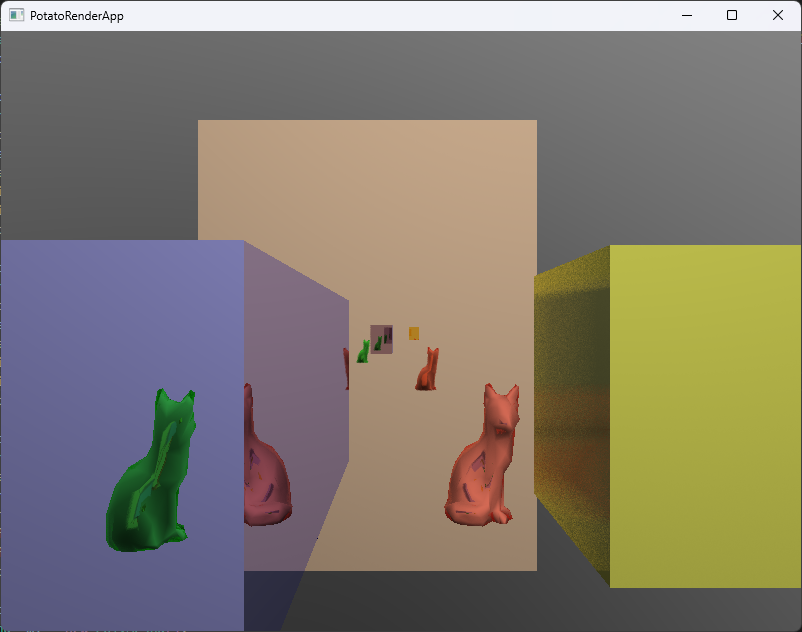
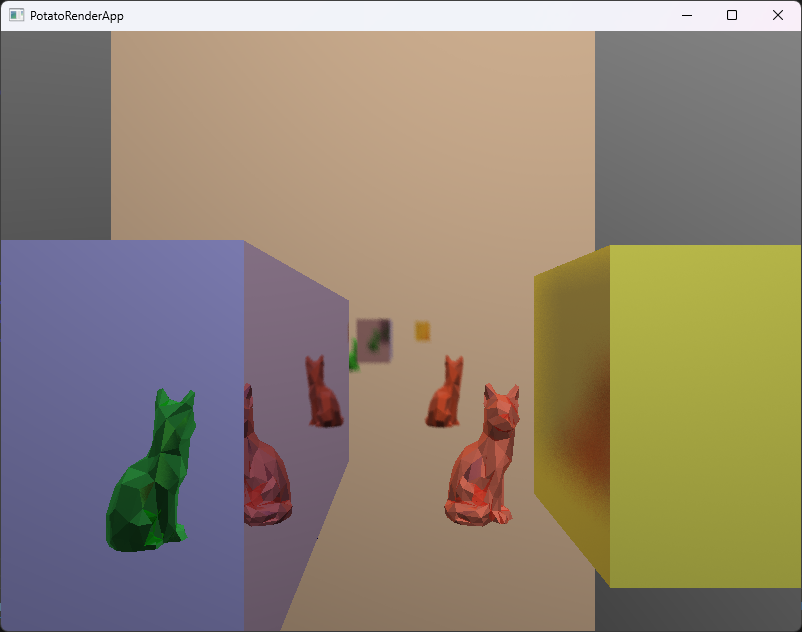
Updated ray scattering

diff --git a/src/lib/PotatoRaytracerEngine.cpp b/src/lib/PotatoRaytracerEngine.cpp
@@ -15,19 +15,19 @@ PotatoRaytracerEngine::PotatoRaytracerEngine(int windowWidth, int windowHeight) 
 	Mat4d modelMat = translate(2.4, -2.0, -20.0) * uniformScale(4.0) * foxMat;
 	PolyMeshd *tp1 = new PolyMeshd();
 	tp1 = loadOBJTriangleMesh("sampleModels/fox.obj");
-	tp1->blendNormals = true;
+	tp1->blendNormals = false;
 	tp1->transform(modelMat);
 	tp1->uniformRecolor(Vec3d(1.0, 0.5, 0.4));
-	tp1->uniformRetexture(0.8, 1.0);
+	tp1->uniformRetexture(0.8, 0.2);
 	meshes.push_back(tp1);
 
 	modelMat = translate<double>(-7.8, -1.5, 4.0) * uniformScale(3.0) * foxMat;
 	PolyMeshd *tp2 = new PolyMeshd();
 	tp2 = loadOBJTriangleMesh("sampleModels/fox.obj");
-	tp2->blendNormals = true;
+	tp2->blendNormals = false;
 	tp2->transform(modelMat);
 	tp2->uniformRecolor(Vec3d(0.3, 1.0, 0.3));
-	tp2->uniformRetexture(1.0, 1.0);
+	tp2->uniformRetexture(1.0, 0.1);
 	meshes.push_back(tp2);
 
 	modelMat = translate<double>(2.1, -0.4, -3.6) * uniformScale(0.8);
@@ -36,7 +36,7 @@ PotatoRaytracerEngine::PotatoRaytracerEngine(int windowWidth, int windowHeight) 
 	c1->blendNormals = false;
 	c1->transform(modelMat);
 	c1->uniformRecolor(Vec3d(1.0, 1.0, 0.4));
-	c1->uniformRetexture(1.0, 0.5);
+	c1->uniformRetexture(1.0, 0.2);
 	meshes.push_back(c1);
 
 	modelMat =  translate<double>(-3.0, -1.0, -8) * scale<double>(1.6, 1.6, 4.0);
@@ -48,13 +48,13 @@ PotatoRaytracerEngine::PotatoRaytracerEngine(int windowWidth, int windowHeight) 
 	m1->uniformRetexture(1.0, 0.0);
 	meshes.push_back(m1);
 
-	modelMat =  translate<double>(-3.0, -1.0, -40) * scale<double>(15, 15, 0.1);
+	modelMat =  translate<double>(-3.0, -1.0, -28) * scale<double>(15, 15, 0.1);
 	PolyMeshd *m2 = new PolyMeshd();
 	m2 = loadOBJTriangleMesh("sampleModels/cube.obj");
 	m2->blendNormals = false;
 	m2->transform(modelMat);
 	m2->uniformRecolor(Vec3d(1.0, 0.85, 0.7));
-	m2->uniformRetexture(1.0, 0.15);
+	m2->uniformRetexture(1.0, 0.05);
 	meshes.push_back(m2);
 }
 
@@ -102,7 +102,7 @@ Vec3f PotatoRaytracerEngine::raycast(Ray ray) {
 		if (collideRay(ray, col_vert)) {
 			double diffuse_scalar = (1.0 + MIN_SKY_LIGHT + col_vert.normal.dot(lightDirection)) / (2.0 + 2*MIN_SKY_LIGHT);
 			if (ENABLE_RANDOM)
-				ray.reflectSelf(col_vert, Vec3d(diffuse_scalar), randDouble());
+				ray.reflectSelf(col_vert, Vec3d(diffuse_scalar), Vec3d(randDouble(), randDouble(), randDouble()));
 			else
 				ray.reflectSelf(col_vert, Vec3d(diffuse_scalar));
 		}
@@ -126,6 +126,7 @@ struct BBCollideData {
 // Returns the color from the given raycast
 bool PotatoRaytracerEngine::collideRay(Ray ray, Vertd &col_vert) {
 	
+	// List of collisions with bounding boxes
 	vector<BBCollideData> bb_collides = {};
 	// For each mesh
 	for (int i = 0; i < meshes.size(); i++) {
@@ -156,6 +157,7 @@ bool PotatoRaytracerEngine::collideRay(Ray ray, Vertd &col_vert) {
 			continue;
 		}
 
+		// Insert into the list
 		bool added = false;
 		for (int i = 0; i < bb_collides.size(); i++) {
 			// Insert new collide to correct location (sorted by near_t)
@@ -171,9 +173,9 @@ bool PotatoRaytracerEngine::collideRay(Ray ray, Vertd &col_vert) {
 			bb_collides.push_back(new_collide);
 	}
 
-
-	Vertd last_vert;
-	double last_cld_t = -1;
+	// Data about the closest collision (if any)
+	Vertd closest_cld_vert;
+	double closest_cld_t = -1;
 	bool hasBeenACollide = false;
 
 	// For each bounding box collision
@@ -185,7 +187,7 @@ bool PotatoRaytracerEngine::collideRay(Ray ray, Vertd &col_vert) {
 		BoundBoxd bb = BoundBoxd(ray.posFromT(bb_cld.near_t), ray.posFromT(bb_cld.far_t));
 
 		// If the closest possible collision is still further than another found collision
-		if (hasBeenACollide && bb_cld.near_t > last_cld_t)
+		if (hasBeenACollide && bb_cld.near_t > closest_cld_t)
 			continue;
 		
 		// For each face
@@ -205,7 +207,7 @@ bool PotatoRaytracerEngine::collideRay(Ray ray, Vertd &col_vert) {
 				continue; // Skip
 
 			// If there was another closer collision
-			if (hasBeenACollide && cld_t > last_cld_t)
+			if (hasBeenACollide && cld_t > closest_cld_t)
 				continue; // Skip
 
 			// If collision with plane is not within the ray's intersection bounding box
@@ -220,14 +222,15 @@ bool PotatoRaytracerEngine::collideRay(Ray ray, Vertd &col_vert) {
 			if (!isInside(bary))
 				continue; // Skip to next face
 
-			last_cld_t = cld_t;
-			last_vert = face.interpolateFaceBary(bary, false);
-			last_vert.pos = pos;
+			closest_cld_t = cld_t;
+			closest_cld_vert = face.interpolateFaceBary(bary, false);
+			closest_cld_vert.pos = pos;
 			hasBeenACollide = true;
 		}
 	}
 
-	
-	col_vert = last_vert;
+	// Put the new collision vert into the reference variable
+	col_vert = closest_cld_vert;
+	// Return whether or not a collision was found
 	return hasBeenACollide;
 }

diff --git a/src/include/Ray.hpp b/src/include/Ray.hpp
@@ -60,6 +60,27 @@ namespace potato {
 			specular = specular * (v.specular * v.metallicity);
 		};
 
+
+		// Modifies itself to become a new reflection ray
+		void reflectSelf(Vertd v, Vec3d diffuse_scalar, Vec3d rand) {
+			// Get new direction vector
+			direction = direction - v.normal * (direction.dot(v.normal)/v.normal.dot(v.normal)) * 2;
+			
+			// Interpolate between random direction vector and reflection direction
+			if (rand.dot(v.normal))
+				rand = rand * -1.0;
+			direction = (direction.mix(rand.normalize(), v.roughness/2.0)).normalize();
+
+
+			// Moves the ray forward very slightly so it doesn't insersect with what it collided with
+			start = v.pos + direction * BASICALLY_ZERO;
+
+			// Diffuse += (diffuse color) * (remaining light being reflected) * (non-metallicity) * (scalar)
+			diffuse = diffuse + (v.diffuse * specular * (1.0-v.metallicity) * diffuse_scalar);
+			// Specular *= (specular color) * (metallicity)
+			specular = specular * (v.specular * v.metallicity);
+		};
+
 		// Return positiong of ray at parameter T
 		Vec3d posFromT(double T) {
 			return start + direction * T;

diff --git a/src/include/Settings.hpp b/src/include/Settings.hpp
@@ -43,7 +43,7 @@
 #define NEAR_PLANE 0.1
 #define VIEW_HEIGHT NEAR_PLANE
 
-#define RANDOMNESS 0.5
+#define RANDOMNESS 1.0
 #define ENABLE_RANDOM true
 #define AVERAGE_FRAMES true
 
